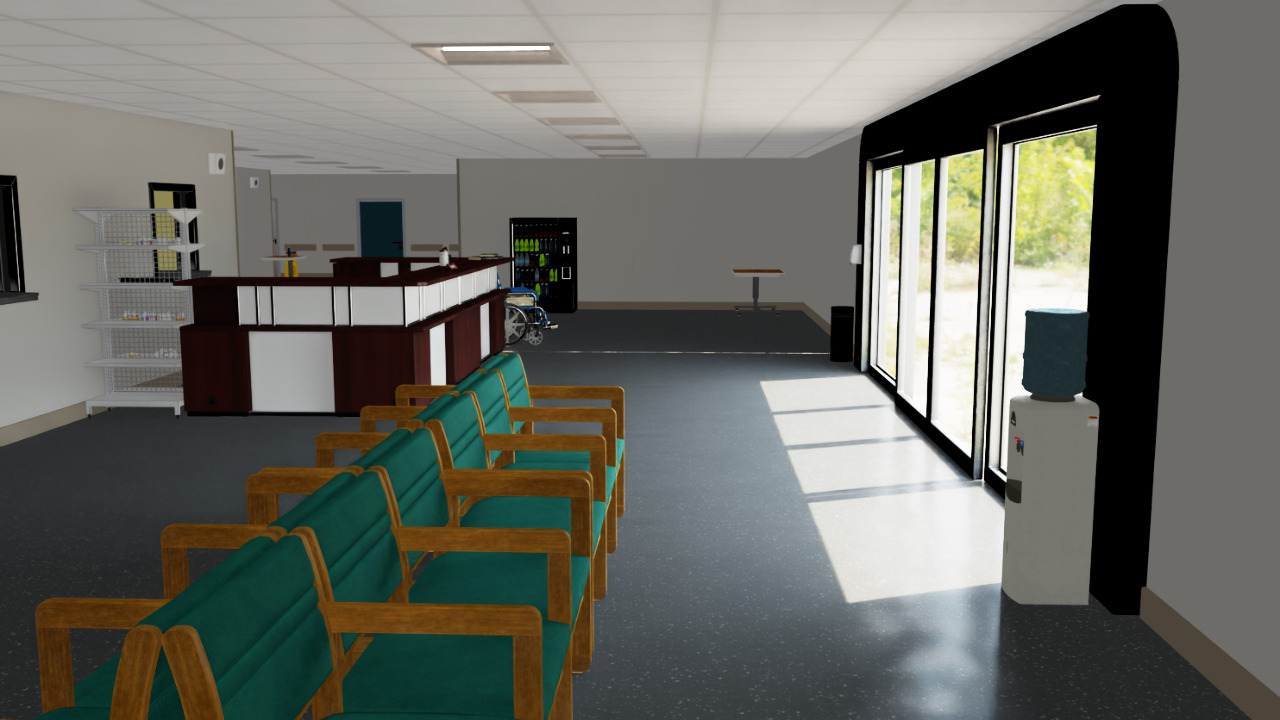
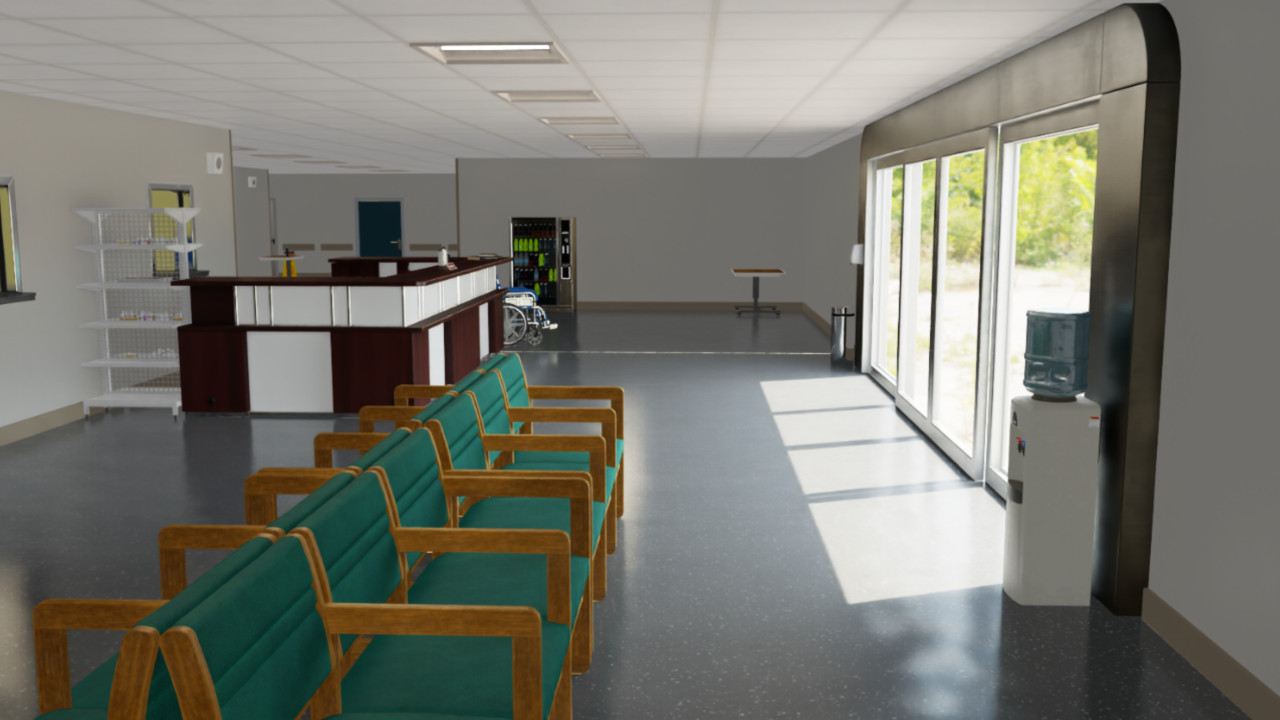
Fixes rendering preset (#561)
# Description

Fixes regression in parsing render preset modes.
Updates renders with recent TOT

<!-- As a practice, it is recommended to open an issue to have
discussions on the proposed pull request.
This makes it easier for the community to keep track of what is being
developed or added, and if a given feature
is demanded by more than one party. -->

## Type of change

<!-- As you go through the list, delete the ones that are not
applicable. -->

- Bug fix (non-breaking change which fixes an issue)
- New feature (non-breaking change which adds functionality)
- Breaking change (fix or feature that would cause existing
functionality to not work as expected)
- This change requires a documentation update

## Screenshots

Please attach before and after screenshots of the change if applicable.

<!--
Example:

| Before | After |
| ------ | ----- |
| _gif/png before_ | _gif/png after_ |

To upload images to a PR -- simply drag and drop an image while in edit
mode and it should upload the image directly. You can then paste that
source into the above before/after sections.
-->

## Checklist

- [X] I have run the [`pre-commit` checks](https://pre-commit.com/) with
`./isaaclab.sh --format`
- [ ] I have made corresponding changes to the documentation
- [ ] My changes generate no new warnings
- [ ] I have added tests that prove my fix is effective or that my
feature works
- [X] I have updated the changelog and the corresponding version in the
extension's `config/extension.toml` file
[…]

diff --git a/source/isaaclab/isaaclab/app/app_launcher.py b/source/isaaclab/isaaclab/app/app_launcher.py
@@ -18,10 +18,7 @@ import os
 import re
 import signal
 import sys
-import toml
 from typing import Any, Literal
-
-import flatdict
 
 with contextlib.suppress(ModuleNotFoundError):
     import isaacsim  # noqa: F401
@@ -865,7 +862,7 @@ class AppLauncher:
                 play_button_group._stop_button = None  # type: ignore
 
     def _set_rendering_mode_settings(self, launcher_args: dict) -> None:
-        """Set RTX rendering settings to the values from the selected preset."""
+        """Store RTX rendering mode in carb settings."""
         import carb
         from isaacsim.core.utils.carb import set_carb_setting
 
@@ -879,23 +876,12 @@ class AppLauncher:
         if rendering_mode is None:
             rendering_mode = "balanced"
 
-        # parse preset file
-        repo_path = os.path.join(carb.tokens.get_tokens_interface().resolve("${app}"), "..")
-        if self.is_isaac_sim_version_4_5():
-            repo_path = os.path.join(repo_path, "..")
-        preset_filename = os.path.join(repo_path, f"apps/rendering_modes/{rendering_mode}.kit")
-        with open(preset_filename) as file:
-            preset_dict = toml.load(file)
-        preset_dict = dict(flatdict.FlatDict(preset_dict, delimiter="."))
-
-        # set presets
-        carb_setting = carb.settings.get_settings()
-        for key, value in preset_dict.items():
-            key = "/" + key.replace(".", "/")  # convert to carb setting format
-            set_carb_setting(carb_setting, key, value)
+        # store rendering mode in carb settings
+        carb_settings = carb.settings.get_settings()
+        set_carb_setting(carb_settings, "/isaaclab/rendering/rendering_mode", rendering_mode)
 
     def _set_animation_recording_settings(self, launcher_args: dict) -> None:
-        """Set animation recording settings."""
+        """Store animation recording settings in carb settings."""
         import carb
         from isaacsim.core.utils.carb import set_carb_setting
 

diff --git a/source/isaaclab/isaaclab/sim/simulation_context.py b/source/isaaclab/isaaclab/sim/simulation_context.py
@@ -333,8 +333,12 @@ class SimulationContext(_SimulationContext):
 
         not_carb_settings = ["rendering_mode", "carb_settings", "antialiasing_mode"]
 
+        # grab rendering mode, defaulting first to the CLI arg --rendering_mode
+        rendering_mode = get_carb_setting(self.carb_settings, "/isaaclab/rendering/rendering_mode")
+        if rendering_mode is None:
+            rendering_mode = self.cfg.render.rendering_mode
+
         # set preset settings (same behavior as the CLI arg --rendering_mode)
-        rendering_mode = self.cfg.render.rendering_mode
         if rendering_mode is not None:
             # check if preset is supported
             supported_rendering_modes = ["performance", "balanced", "quality"]

diff --git a/source/isaaclab/docs/CHANGELOG.rst b/source/isaaclab/docs/CHANGELOG.rst
@@ -1,6 +1,15 @@
 Changelog
 ---------
 
+0.42.27 (2025-07-21)
+~~~~~~~~~~~~~~~~~~~~
+
+Fixed
+^^^^^
+
+* Fixed rendering preset mode regression.
+
+
 0.42.26 (2025-07-22)
 ~~~~~~~~~~~~~~~~~~~~
 
@@ -8,6 +17,7 @@ Changed
 ^^^^^^^
 
 * Updated teleop scripts to print to console vs omni log.
+
 
 0.42.25 (2025-07-17)
 ~~~~~~~~~~~~~~~~~~~~
